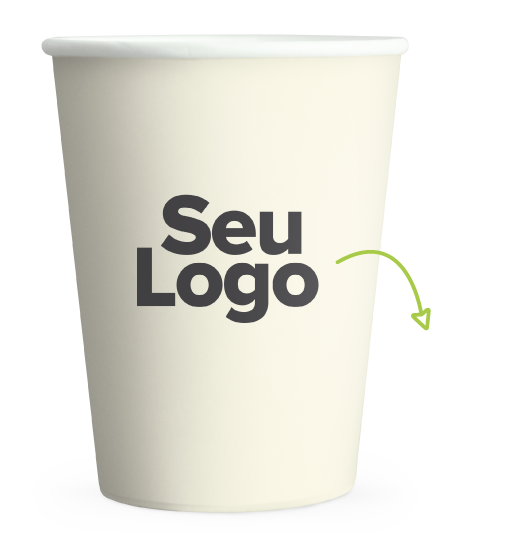
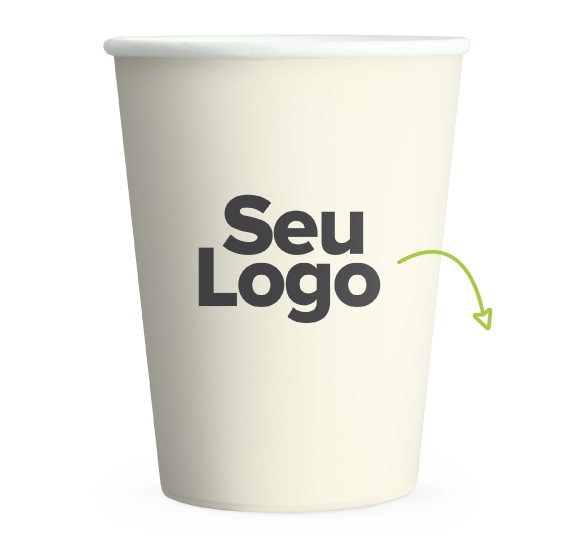
correção-adote

Changed region(s): [[0.0592, 0.0609, 0.858, 0.9444], [0.7101, 0.5484, 0.7692, 0.8835], [0.6213, 0.8835, 0.6509, 0.914]]

diff --git a/index.html b/index.html
@@ -21,7 +21,6 @@
             </div>
             <div class="copo-seu-logo">
                 <img class="copo-img" src="./assets/img/copo-papel-frase-personalizado-brsupply-sustentabilidade-consumo-consciente.png" alt="Imagem do copo sustantável com o descritivo 'Seu Logo', representando o logo do cliente aplicado.">
-                </div>
             </div>
             <div class="vantagens-copo">
                 <p class="vantagens-copo-texto">
@@ -48,19 +47,40 @@
             </div>
         </section>
         <section class="adote">
-            <img class="adote-titulo" src="./assets/Adote-essa-ideia-brsupply-sustentabilidade-consumo-consciente.svg" alt="Adote essa ideia! Copo de Papel!">
-            <div class="adote-conteudo">
-                <div class="adote-texto">
-                    <p class="adote-texto-paragrafo">
-                        Aderir ao copo de papel mostra comprometimento com a sustentabilidade e as boas práticas de ESG, atitudes que melhoram a imagem da sua empresa, atraindo clientes conscientes e alinhados com as expectativas do mercado.
-                    </p>
-                    <p class="adote-texto-paragrafo">
-                        Além disso, incentivar os colaboradores a adotar copos de papel promove conscientização sobre consumo sustentável e impacto ambiental. Essa mudança estimula uma mentalidade de preservação e responsabilidade social.
-                    </p>
-                    <p class="adote-texto-paragrafo">
-                        Embora inicialmente tenham um custo mais alto, a longo prazo, os copos de papel oferecem economia de custos devido à imagem positiva, redução de desperdício e vantagens ﬁscais das práticas sustentáveis.
-                    </p>
+            <div class="adote-desktop">
+                <img class="adote-titulo" src="./assets/Adote-essa-ideia-brsupply-sustentabilidade-consumo-consciente.svg" alt="Adote essa ideia! Copo de Papel!">
+                <img class="adote-titulo__desk" src="./assets/Adote-essa-ideia-2-brsupply-sustentabilidade-consumo-consciente.svg" alt="Adote essa ideia! Copo de Papel!">
+                <div class="adote-conteudo">
+                    <div class="adote-texto">
+                        <p class="adote-texto-paragrafo">
+                            Aderir ao copo de papel mostra comprometimento com a sustentabilidade e as boas práticas de ESG, atitudes que melhoram a imagem da sua empresa, atraindo clientes conscientes e alinhados com as expectativas do mercado.
+                        </p>
+                        <p class="adote-texto-paragrafo">
+                            Além disso, incentivar os colaboradores a adotar copos de papel promove conscientização sobre consumo sustentável e impacto ambiental. Essa mudança estimula uma mentalidade de preservação e responsabilidade social.
+                        </p>
+                        <p class="adote-texto-paragrafo">
+                            Embora inicialmente tenham um custo mais alto, a longo prazo, os copos de papel oferecem economia de custos devido à imagem positiva, redução de desperdício e vantagens ﬁscais das práticas sustentáveis.
+                        </p>
+                    </div>
                 </div>
+            </div>
+            <div class="adote-mobile">
+                <img class="adote-titulo" src="./assets/Adote-essa-ideia-brsupply-sustentabilidade-consumo-consciente.svg" alt="Adote essa ideia! Copo de Papel!">
+                <img class="adote-titulo__desk" src="./assets/Adote-essa-ideia-2-brsupply-sustentabilidade-consumo-consciente.svg" alt="Adote essa ideia! Copo de Papel!">
+                <div class="adote-conteudo">
+                    <div class="adote-texto">
+                        <p class="adote-texto-paragrafo">
+                            Aderir ao copo de papel mostra comprometimento com a sustentabilidade e as boas práticas de ESG, atitudes que melhoram a imagem da sua empresa, atraindo clientes conscientes e alinhados com as expectativas do mercado.
+                        </p>
+                        <p class="adote-texto-paragrafo">
+                            Além disso, incentivar os colaboradores a adotar copos de papel promove conscientização sobre consumo sustentável e impacto ambiental. Essa mudança estimula uma mentalidade de preservação e responsabilidade social.
+                        </p>
+                        <p class="adote-texto-paragrafo">
+                            Embora inicialmente tenham um custo mais alto, a longo prazo, os copos de papel oferecem economia de custos devido à imagem positiva, redução de desperdício e vantagens ﬁscais das práticas sustentáveis.
+                        </p>
+                    </div>
+                </div>
+            </div>
                 <div class="icone">
                     <div class="icone-conteudo">
                         <div class="icone-conteudo-conjunto-svg">
@@ -79,7 +99,6 @@
                         </div>
                     </div>
                 </div>
-            </div>
         </section>
     </main>
     <footer class="rodape">

diff --git a/styles/index.css b/styles/index.css
@@ -11,11 +11,11 @@
 .consumo-consciente {
     display: flex;
     flex-direction: column;
-    gap: 15px;
+    gap: 11px;
 }
 
 .consumo-consciente-logo {
-    height: 80px;
+    height: 70px;
     position: center;
 }
 
@@ -23,27 +23,22 @@
     color: var(--color-white);
     text-align: center;
     font-family: var(--type);
-    font-size: 20.833px;
+    font-size: 18px;
     font-style: normal;
-    font-weight: 400;
+    font-weight: 300;
     line-height: normal;
 }
 
 .copo-seu-logo {
-    padding: 3em  0em 1.75em 0em;
+    padding: 2.5em  0em 1em 0em;
 }
 
 .copo-img {
-    width: 338px;
-    height: auto;
-}
-
-.copo-flecha {
-    height: 58px;
+    width: auto;
+    height: 330px;
 }
 
 .conjunto-flecha-texto {
-    
     position: absolute;
 }
 
@@ -160,18 +155,31 @@
 /* SEÇÃO ADOTE */
 .adote {
     display: flex;
-    flex-direction: column;
+    flex-direction: row;
     align-items: center;
     padding: 4em 0em 3em 0em;
 }
 
+.adote-desktop {
+    display: none;
+}
+
+.adote-mobile {
+    display: block;
+}
+
 .adote-conteudo {
+    display: flex;
     gap: 20px;
 }
 
 .adote-titulo {
     height: 60px;
     padding-bottom: 25px;
+}
+
+.adote-titulo__desk {
+    display: none;
 }
 
 .adote-texto-paragrafo {
@@ -183,10 +191,6 @@
     font-style: normal;
     font-weight: 400;
     line-height: 125%;
-}
-
-.adote-conteudo {
-    display: flex;
 }
 
 .adote-texto {
@@ -251,6 +255,7 @@
 .rodape {
     display: flex;
     justify-content: center;
+    align-items: center;
     background-color: var(--color-thin-gray);
     padding: 29px;
     gap: 25px;
@@ -279,4 +284,156 @@
     font-weight: 700;
     line-height: 100%;
     letter-spacing: -0.19px;
+}
+
+/* DESKTOP */
+@media screen and (min-width: 1280px) {
+    /* SEÇÃO HOME */
+    .home {
+        height: 100vh;
+        border: 4em 0em;
+    }
+
+    .consumo-consciente-logo {
+        height: 80px;
+    }
+
+    .consumo-consciente-atitudes {
+        font-size: 21px;
+    }
+
+    .copo-seu-logo {
+        padding: 4.5em  0em 2.5em 0em;
+    }
+
+    .copo-img {
+        width: auto;
+        height: 580px;
+    }
+
+    .seta {
+        height: 8px;
+        padding: 3em 0em 0em 0em;
+        position: absolute;
+        bottom: 2.5em;
+    }
+
+    .selos {
+        gap: 900px;
+    }
+
+    .FSC {
+        height: 27px;
+    }
+    
+    .produto-sustentavel {
+        height: 25px;
+    }
+
+    /* SEÇÃO PAPEL VS PLASTICO */
+    .papel-vs-plastico {
+        height: 100vh;
+     }
+    
+    .img-copo {
+        width: 370px; 
+        height: auto;
+    }
+    
+    .flechas-copo {
+        width: 700px; 
+        height: auto; 
+        top: 51%;
+        left: 49.8%;
+    }
+
+    /* SEÇÃO ADOTE */
+    .adote {
+        height: 80vh;
+        display: flex;
+        flex-direction: row;
+        align-items: center;
+        justify-content: center;
+        padding: 0em 20em 0em 0em;
+        gap: 120px;
+    }
+
+    .adote-desktop {
+        display: block;
+    }
+
+    .adote-mobile {
+        display: none;
+    }
+
+    .adote-texto-paragrafo {
+        width: 450px;
+        font-size: 17px;
+    }
+
+    .adote-titulo {
+        display: none;
+    }
+
+    .adote-titulo__desk {
+        display: block;
+        height: 150px;
+        padding-bottom: 25px;
+    }
+
+    .icone-conteudo {
+        gap: 25px;
+    }
+
+    .icone-conteudo-svg {
+        height: 65px;
+        padding-bottom: 35px;
+    }
+
+    .icone-conteudo-texto {
+        width: 252px;
+        font-size: 20px;
+    }
+
+    .texto-renovavel {
+        padding-top: 12px;
+        padding-bottom: 60px;
+    } 
+    
+    .texto-oceanos {
+        padding-bottom: 53px;
+    }
+    
+    .texto-recursos {
+        padding-bottom: 50px;
+    }
+    
+    .texto-decomposicao {
+        padding-bottom: 51px;
+    }
+    
+    .texto-reciclavel {
+        padding-bottom: 0px;
+    } 
+
+    /* SEÇÃO RODAPE */
+    .rodape {
+        padding: 40px;
+        gap: 35px;
+    }   
+
+    .rodape-logo-brsupply {
+        width: 170px;
+    }
+    
+    .rodape-texto {
+        font-size: 12px;
+        letter-spacing: -0.19px;
+        padding-bottom: 5px;
+    }
+    
+    .rodape-site {
+        font-size: 12px;
+        letter-spacing: -0.19px;
+    }
 }
